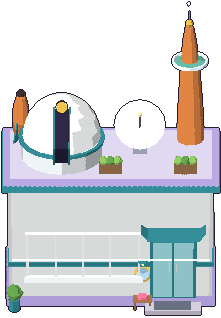
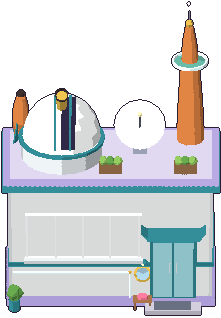
Buildings track BD-5: the lab's slit lies on its dome, the window raised clear of the tube, white panels
Claude-Session: https://claude.ai/code/session_019UpAFzwkCA8UjAyzSzcLiu

diff --git a/tools/build-civic.py b/tools/build-civic.py
@@ -472,10 +472,13 @@ def lab():
     ht = 3.6
     LAV, PANEL = '#A698CC', '#EAEEEC'
     L += [box(0, D, 0, w + 0.24, Dp + 0.24, 0.26, '#9A8CC0', 'brick', bevel=0.04, name='plinth'),
-          box(0, D, 0.26, w, Dp, ht - 0.26, PANEL, 'riveted', bevel=0.05, name='walls'),
+          box(0, D, 0.26, w, Dp, ht - 0.26, PANEL, 'panels', bevel=0.05, name='walls'),
           box(0, D, 1.2, w + 0.06, Dp + 0.06, 0.12, TEAL, 'metal', name='teal band'),
-          limb((-w / 2 + 0.1, -0.08, 1.42), (w / 2 - 0.1, -0.08, 1.42), 0.04, '#E0FAFF', 'plain', sides=6,
-               glow=NEON_T, name='pneumatic tube')]
+          limb((-w / 2 + 0.1, -0.08, 1.02), (0.6, -0.08, 1.02), 0.04, '#E0FAFF', 'plain', sides=6,
+               glow=NEON_T, name='pneumatic tube'),
+          limb((0.6, -0.08, 1.02), (0.6, -0.08, 0.26), 0.04, '#E0FAFF', 'plain', sides=6, glow=NEON_T,
+               name='pneumatic tube'),
+          sphere(0.6, -0.08, 0.97, 0.06, BRASS, 'metal', sides=6, rings=3, name='tube elbow')]
     for sx in (-1, 1):
         L.append(box(sx * (w / 2 - 0.02), 0.03, 0.26, 0.1, 0.1, ht - 0.26, '#D6DADC', 'metal', name='corner trim'))
     # the roof: teal trim, a lavender tiled edge round a flat roof
@@ -490,16 +493,13 @@ def lab():
           lathe(ox, oy, rt + 0.58, [(orr, 0)] + [(orr * math.cos(a), orr * math.sin(a))
                                                  for a in [i * math.pi / 12 for i in range(1, 6)]] + [(0, orr)],
                 PANEL, 'standingseam', sides=20, name='observatory dome', roof=1),
-          box(ox, oy - orr * 0.55, rt + 0.6, 0.42, orr * 1.0, orr * 0.95, '#2A2440', tilt=[-38 * DEG, 0],
-              name='dome slit'),
-          box(ox - 0.24, oy - orr * 0.55, rt + 0.6, 0.06, orr * 1.05, orr * 1.0, TEAL, 'metal', tilt=[-38 * DEG, 0],
-              name='slit rail'),
-          box(ox + 0.24, oy - orr * 0.55, rt + 0.6, 0.06, orr * 1.05, orr * 1.0, TEAL, 'metal', tilt=[-38 * DEG, 0],
-              name='slit rail'),
-          limb((ox, oy + 0.1, rt + 0.95), (ox, oy - 0.95, rt + 1.95), 0.13, BRASS, 'metal', sides=10,
-               name='telescope') | {'r1': 0.17},
-          lathe(ox, oy - 0.95, rt + 1.95, [(0.18, 0), (0.2, 0), (0.2, 0.08), (0.18, 0.08), (0.18, 0)], DARK, 'metal',
-                sides=10, tilt=[-45 * DEG, 0], name='telescope rim')]
+          ] + dome_band(ox, oy, rt + 0.58, orr + 0.015, orr - 0.06, 0.42, '#2A2440', 'dome slit')
+    L += [dome_band(ox + sx * 0.24, oy, rt + 0.58, orr + 0.05, orr - 0.02, 0.06, TEAL, 'slit rail')[0] for sx in (-1, 1)]
+    # the telescope looks out of the slit, up at 50 degrees
+    tel = (ox, oy - 1.05 * math.cos(50 * DEG), rt + 0.95 + 1.6 * math.sin(50 * DEG))
+    L += [limb((ox, oy + 0.15, rt + 0.75), tel, 0.13, BRASS, 'metal', sides=10, name='telescope') | {'r1': 0.17},
+          lathe(*tel, [(0.18, 0), (0.2, 0), (0.2, 0.08), (0.18, 0.08), (0.18, 0)], DARK, 'metal', sides=10,
+                tilt=[-40 * DEG, 0], name='telescope rim')]
     # the radio dish on the right, tipped up toward the sky, its feed glowing
     rx, ryy = 0.9, D + 0.2
     dish = [(0, 0), (0.25, 0.02), (0.5, 0.08), (0.7, 0.18), (0.78, 0.24), (0.74, 0.25), (0.48, 0.12), (0.0, 0.04)]
@@ -535,7 +535,7 @@ def lab():
             L.append(sphere(x - 0.22 + j * 0.22, 0.45, rt + 0.2, 0.14, LEAF if j % 2 else LEAF2, 'leaves', sides=8,
                             rings=4, name='roof plant'))
     # the big window: the drawn view inside, a slim white frame with mullions, a sill
-    wx, ww, wz0, wh = -0.85, 108 / PPM, 0.9, 41 / PPM
+    wx, ww, wz0, wh = -0.85, 108 / PPM, 1.5, 41 / PPM
     L.append(B1.img(LAB_WINDOW, wx, -0.01, wz0, face='fixed', recv=0, name='window view'))
     L += [box(wx, -0.03, wz0 - 0.08, ww + 0.16, 0.06, 0.08, '#F4F4F6', 'metal', name='window frame'),
           box(wx, -0.03, wz0 + wh, ww + 0.16, 0.06, 0.08, '#F4F4F6', 'metal', name='window frame'),
@@ -582,6 +582,14 @@ def lab():
     L += [box(x, Dp + 0.01, 1.65, 1.3, 0.04, 0.9, GLASS, glass=M.g(), name='back window') for x in (-1.6, 1.6)]
     return {'about': "BD-5: Professor Hazel's lab, an observatory (look B, C showpiece)", 'warp': warp(0, 8, 0.02, 0.02),
             'layers': L}, M
+
+
+def dome_band(x, y, z, r0, r1, w, col, name):
+    """a band lying on a dome's front, from its foot over toward the top (the slit and its rails): an arc profile
+    across the depth, drawn out w wide across (a prism turned a quarter)"""
+    A = [a * DEG for a in range(8, 101, 12)]
+    pts = [(-r0 * math.cos(a), r0 * math.sin(a)) for a in A] + [(-r1 * math.cos(a), r1 * math.sin(a)) for a in A[::-1]]
+    return [prism(x + w / 2, y, z, pts, w, col, rot=r3(math.pi / 2), name=name)]
 
 
 BUILDINGS = {'shop': shop, 'inn': inn, 'library': library, 'lab': lab}
